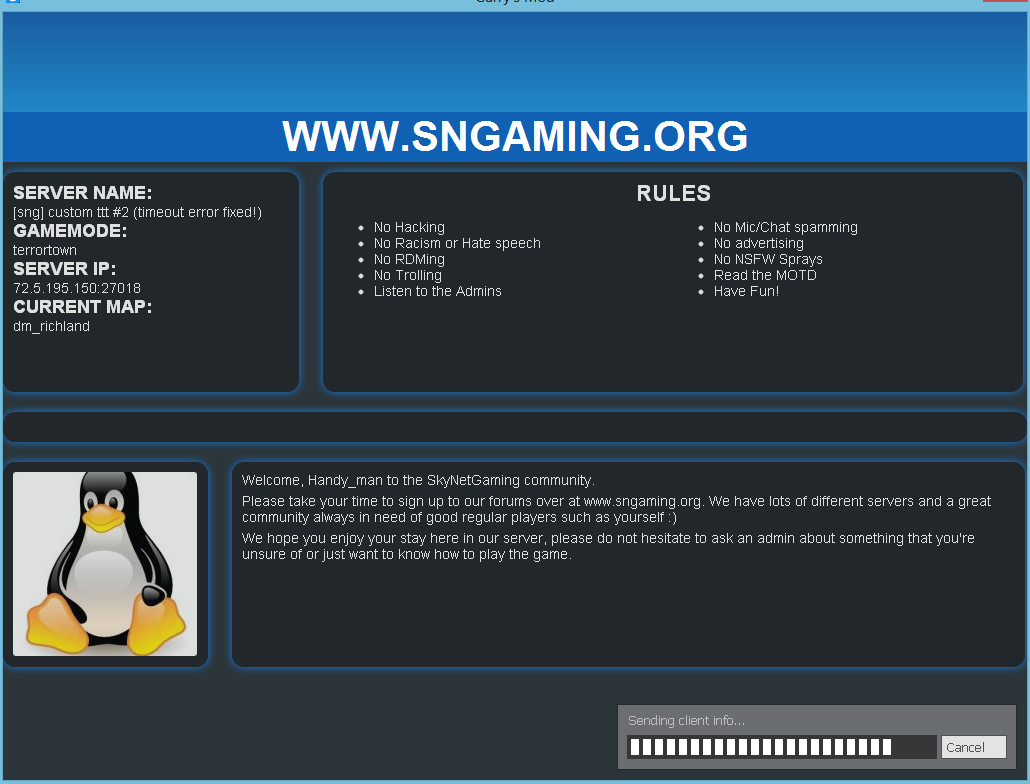
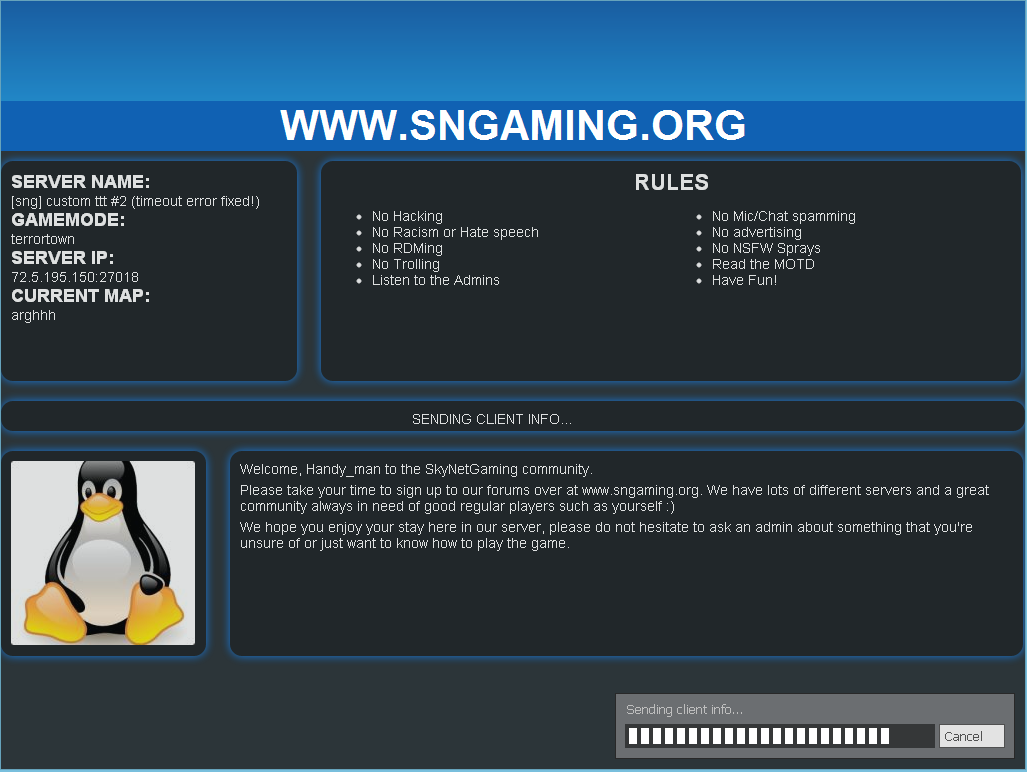
v1.11 ready

diff --git a/public_html/loading-v1.1/styles.php b/public_html/loading-v1.1/styles.php
@@ -132,7 +132,7 @@ div#primary_content
 	/* OTHER */
 	padding: 10px;
 	background-color:rgba(0,0,0,0.3);
-	width: 63%;
+	width: 66.5%;
 	height: 200px;
 
 }
@@ -153,7 +153,7 @@ div#secondary_content
 	/* OTHER */
 	padding: 10px;
 	background-color:rgba(0,0,0,0.3);
-	width: 72.5%;
+	width: 75.5%;
 	height: 185px;
 }
 
@@ -195,14 +195,13 @@ div#status_content
 	/* OTHER */
 	padding: 10px;
 	background-color:rgba(0,0,0,0.3);
-	width: 95%;
 	height: 10px;
 	margin-top: 20px;
 	margin-bottom: 20px;
 }
 
 .in_status{
-	margin: 0 38%;
+	margin: 0 40%;
 }
 
 .welcome_steam{

diff --git a/public_html/loading/styles.php b/public_html/loading/styles.php
@@ -201,7 +201,7 @@ div#status_content
 }
 
 .in_status{
-	margin: 0 38%;
+	margin: 0 40%;
 }
 
 .welcome_steam{

diff --git a/public_html/statuslegit/styles.php b/public_html/statuslegit/styles.php
@@ -201,7 +201,7 @@ div#status_content
 }
 
 .in_status{
-	margin: 0 38%;
+	margin: 0 40%;
 }
 
 .welcome_steam{
